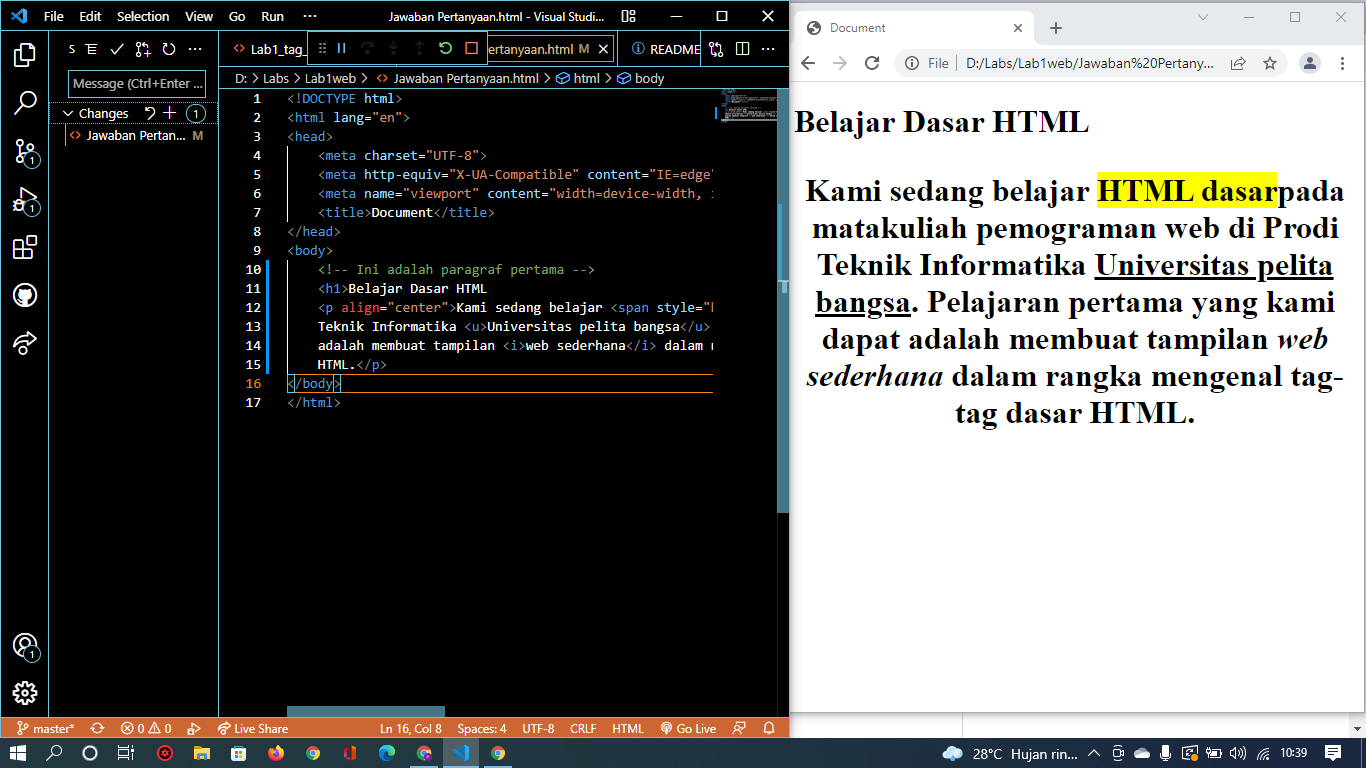
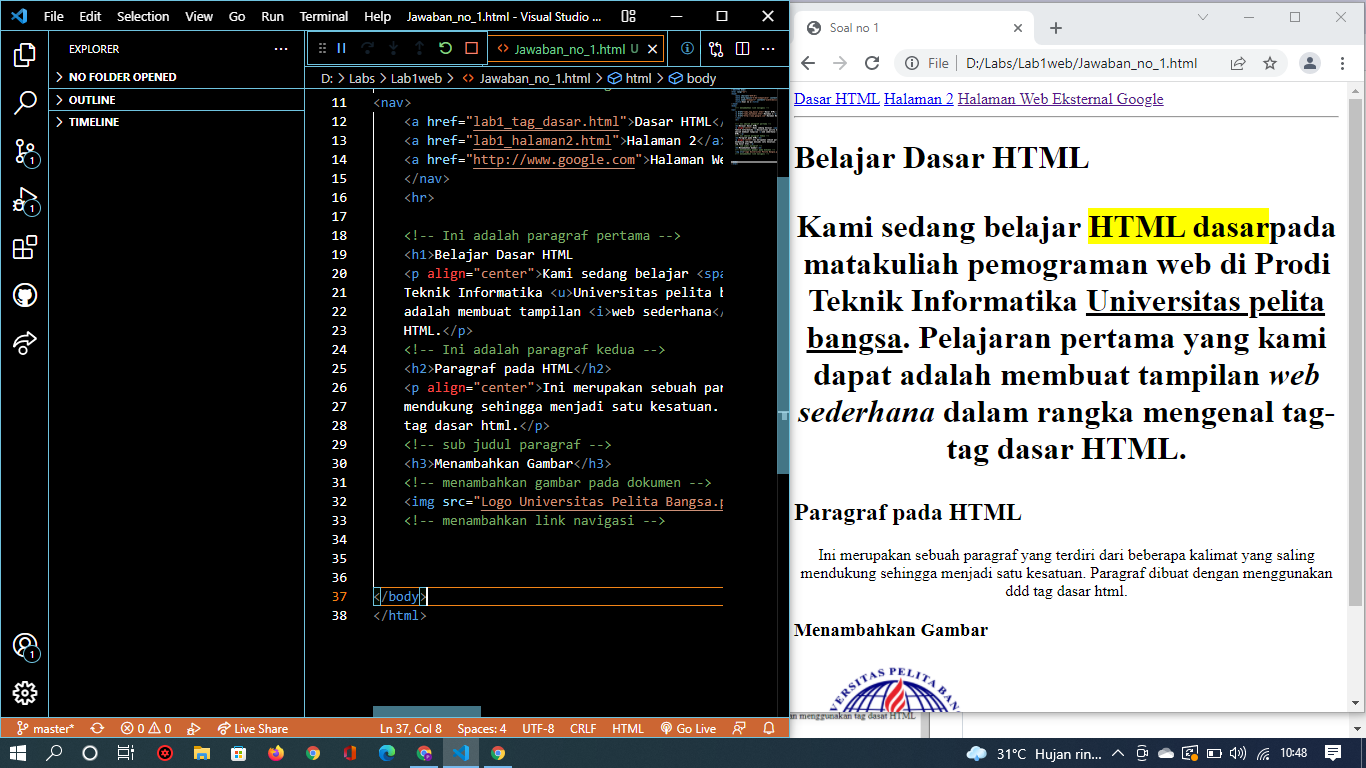
menambahkan foto

diff --git a/Jawaban_no_1.html b/Jawaban_no_1.html
@@ -1,0 +1,38 @@
+<!DOCTYPE html>
+<html lang="en">
+<head>
+    <meta charset="UTF-8">
+    <meta http-equiv="X-UA-Compatible" content="IE=edge">
+    <meta name="viewport" content="width=device-width, initial-scale=1.0">
+    <title>Soal no 1</title>
+</head>
+<body>
+    <!-- menambahkan link navigasi -->
+<nav>
+    <a href="lab1_tag_dasar.html">Dasar HTML</a>
+    <a href="lab1_halaman2.html">Halaman 2</a>
+    <a href="http://www.google.com">Halaman Web Eksternal Google</a>
+    </nav>
+    <hr>
+    
+    <!-- Ini adalah paragraf pertama -->
+    <h1>Belajar Dasar HTML
+    <p align="center">Kami sedang belajar <span style="background-color: yellow;">HTML dasar</span>pada matakuliah <b>pemograman web</b> di Prodi 
+    Teknik Informatika <u>Universitas pelita bangsa</u>. Pelajaran pertama yang kami dapat 
+    adalah membuat tampilan <i>web sederhana</i> dalam rangka mengenal tag-tag dasar 
+    HTML.</p>
+    <!-- Ini adalah paragraf kedua -->
+    <h2>Paragraf pada HTML</h2>
+    <p align="center">Ini merupakan sebuah paragraf yang terdiri dari beberapa kalimat yang saling 
+    mendukung sehingga menjadi satu kesatuan. Paragraf dibuat dengan menggunakan ddd
+    tag dasar html.</p>
+    <!-- sub judul paragraf -->
+    <h3>Menambahkan Gambar</h3>
+    <!-- menambahkan gambar pada dokumen -->
+    <img src="Logo Universitas Pelita Bangsa.png" width="200" title="Logo universitas pelita bangsa">
+    <!-- menambahkan link navigasi -->
+
+
+
+</body>
+</html>
